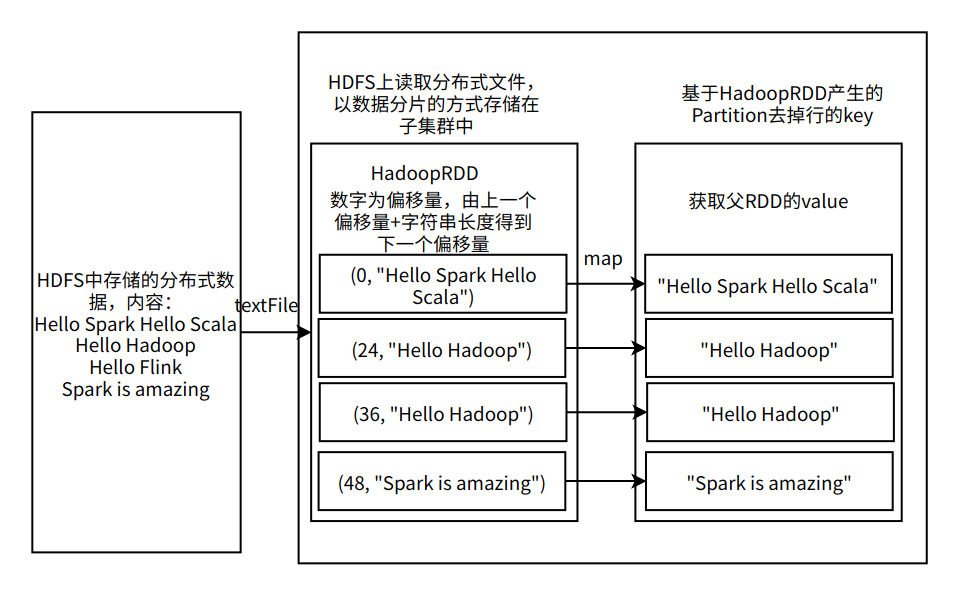
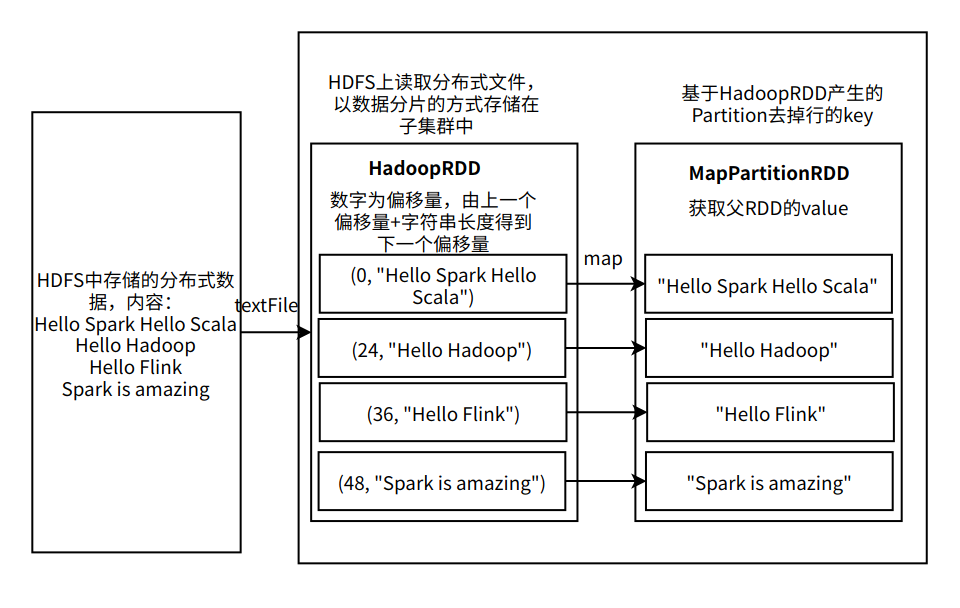
add wordCount运行原理

diff --git a/docs/ch7 Spark.md b/docs/ch7 Spark.md
@@ -406,21 +406,19 @@ wordCountsOrdered.collect.foreach(wordNumberPair => println(wordNumberPair._1 + 
 
 #### 7.4.2.4 WordCount在RDD的运行原理
 
-ch7.4.2.4_1.png
-
-一、 **textFile**
+一、 textFile
 
 <center><img src="https://gitee.com/shenhao-stu/Big-Data/raw/master/doc_imgs/ch7.4.2.4_1.png" style="zoom: 100%;" /></center>
 
-textFile：在textFile 操作产生了两个 RDD：**HadoopRDD** 和 **MapPartitionRDD**。
+在textFile 操作产生了两个 RDD：**HadoopRDD** 和 **MapPartitionRDD**。
 
 1. **HadoopRDD** 
 
-在这里之所以会先产生 HadoopRDD，是因为处理数据的第一步：我们当然是先要从 HDFS 中抓取数据了，所以会先产生 HadoopRDD。HadoopRDD 会从 HDFS 上读取分布式文件，并将输入文件以数据分片的方式存在于集群中。数据分片就是把要处理的数据分成不同的部分。
+在这里之所以会先产生 HadoopRDD，是因为处理数据的第一步：我们当然是先要从 HDFS 中抓取数据了，所以会先产生 HadoopRDD。HadoopRDD 会从 HDFS 上读取分布式文件，并将输入文件以数据分片的方式存在于集群中。数据分片就是把要处理的数据分成不同的部分。**举个例子**：
 
-假如我们集群现在有 4 个节点，于是我们将数据分成 4 个数据分片 (当然，这是一种粗略的划分)，Hello Spark在第一台机器，Hello Hadoop在第二台机器，Hello Flink在第三台机器，Spark is amazing在第四台机器。HadoopRDD 会帮助我们从磁盘上读取数据，在计算的时候会将数据放在内存中，并且会以分布式的方式放在内存中。
+假如我们集群现在有 4 个节点，于是我们将数据分成 4 个数据分片 (当然，这是一种粗略的划分)，“Hello Spark"在第一台机器，"Hello Hadoop"在第二台机器，"Hello Flink“在第三台机器，”Spark is amazing“在第四台机器。HadoopRDD 会帮助我们从磁盘上读取数据，在计算的时候会将数据放在内存中，并且会以分布式的方式放在内存中。
 
-在默认情况下，Spark 分片的策略，分片的大小与存储数据的 block 块的大小是相同的。假设我们现在有 4 个数据分片 (partition)，每个数据分片有 128M 左右。这里描述为"左右"的原因是，分片记录可能会跨越两个Block来存储，如果最后一条数据跨了两个Block，那么分片的时候会把最后一条数据都放在前面的一个分片中，此时分片大小会大于128M（Block块大小）。
+在默认情况下，Spark 分片的策略，**分片的大小与存储数据的 block 块的大小是相同的**。假设我们现在有 4 个数据分片 (partition)，每个数据分片有 128M 左右。这里描述为"左右"的原因是，分片记录可能会跨越两个Block来存储，如果最后一条数据跨了两个Block，那么分片的时候会把最后一条数据都放在前面的一个分片中，此时分片大小会大于128M（Block块大小）。
 
 2. **MapPartitionsRDD**
 
@@ -432,15 +430,71 @@ MapPartitionsRDD 是基于 HadoopRDD 产生的 RDD，MapPartitionsRDD 将 Hadoop
 
 <center><img src="https://gitee.com/shenhao-stu/Big-Data/raw/master/doc_imgs/ch7.4.2.4_2.png" style="zoom: 100%;" /></center>
 
-flatMap 操作产生了一个 MapPartitionsRDD，MapPartitionsRDD 在这里面的作用：是对每个 Partition 中的每一行内容进行单词切分并合并成一个大的单词实例的集合。
+flatMap 操作产生了一个 **MapPartitionsRDD**，MapPartitionsRDD 在这里面的作用：是对每个 Partition 中的每一行内容进行单词切分并合并成一个大的单词实例的集合。
 
-三、 **Map**
+三、 Map
 
-四、 **reduceByKey**
+<center><img src="https://gitee.com/shenhao-stu/Big-Data/raw/master/doc_imgs/ch7.4.2.4_3.png" style="zoom: 100%;" /></center>
 
-五、 **输出**
+先来看map操作，map 操作产生了一个 RDD：**MapPartitionsRDD**，MapPartitionsRDD 在这里面的作用为：在我们单词拆分的基础上对我们的单词计数为 1。比如将“Hello”和“Spark“变为(Hello, 1), (Spark, 1)。
+
+四、 reduceByKey
+
+<center><img src="https://gitee.com/shenhao-stu/Big-Data/raw/master/doc_imgs/ch7.4.2.4_4.png" style="zoom: 100%;" /></center>
+
+reduceByKey对相同key进行value的统计。包括本地级别和全局级别的统计。 reduceByKey 这个步骤实际上产生了两个 RDD：**MapPartitionsRDD** 与 **ShuffledRDD**。
+
+<center><img src="https://gitee.com/shenhao-stu/Big-Data/raw/master/doc_imgs/ch7.4.2.4_3.png" style="zoom: 100%;" /></center>
+
+**MapPartitionsRDD**：reduceByKey在MapPartitionRDD之后，首先在Local reduce级别本地进行了统计。进行本地级别 (local) 的归并操作，并且把统计后的结果按照分区策略放到不同的 File。这里的分区策略可以理解为上一个阶段的结果，将分成几个标志交给下一个极端来处理。举个例子：
+
+如本地将(Hello, 1),(Spark, 1),(Hello, 1)汇聚为(Hello, 2), (Spark, 1)进行局部统计，然后将统计的结果传给下一个阶段，如果下一个阶段Stage是3个并行度，每个Partition进行local reduce后，将自己的数据分成了3种类型传给下一个阶段。分成3种类型最简单的方式是通过HashCode按3进行取模。
+
+这个步骤发生在 Stage1 的末尾端，基于内存进行计算，减少了网络的传输，加快了计算速度。
+
+**ShuffledRDD**：接着ReduceByKey会进行Shuffle操作，Shuffle操作会产生ShuffleRDD，因为网络传输不能在内存中进行迭代（在全局进行聚合的操作），因此需要一个新的Stage来重新分类。把结果收集后，会进行全局 reduce 级别的归并操作。举个例子，对照上述流程图：
+
+前面一步假设有四个机器对这四行数据进行并行计算，并每台机器在自己内存中进行了局部聚集，对已经分好类的数据。我们从第一台机器中获取数据（Hello, 2），第二台机器获取数据（Hello, 1），第三台机器获取数据（Hello, 1），把所有的Hello都抓过来后，进行全局Reduce 在内部变成（Hello, 4），产生reduceByKey的最后结果，其他数据也类似统计。
+
+总结一下，reduceByKey 含有两个阶段：**第一个是本地级别的 Reduce，一个是全局级别的 Reduce**，第一个本地级别是我们容易忽视的。
+
+五、 输出
+
+reduceByKey之后，我们得到了数据的最后结果，需要对结果进行输出。在输出过程中，会产生**MapPartitionsRDD**，这里的输出有两种情况：**Collect**或 **saveAsTextFile**。
+
+对于Collect来说，MapPartitionsRDD的作用是把结果收集起来发送给Driver。
+
+对于saveAsTextFile，我们将 Stage2 产生的结果输出到我们 HDFS 中的时候数据的输出要符合一定的格式，而我们现在的结果只有 value，没有 Key，所以 MapPartitionsRDD 帮助我们生成相应的 Key。例如输出（Hello, 4），这里（Hello, 4）是value，而不是"Hello"是key，4是value的形式。
+
+但是我们最初在textFile读入数据时，split分片将key去掉了，只对value计算，因此最后我们需要把去掉的key弄回来。因为这里的key只对Spark框架有意义（满足格式），因此最后往HDFS写结果时，生成的key为null即可。
 
 
+
+#### 7.4.2.5 总结-DAG整体分析
+
+以DAG图的整体流程做下总结。从DAG中我们可以看出总共包含了两个阶段，Stage0 和 Stage 1。
+
+<center><img src="https://gitee.com/shenhao-stu/Big-Data/raw/master/doc_imgs/ch7.4.2.5_1.png" style="zoom: 100%;" /></center>
+
+我们接下来在具体看一下每个阶段的具体详情：
+
+第一个 Stage
+
+<center><img src="https://gitee.com/shenhao-stu/Big-Data/raw/master/doc_imgs/ch7.4.2.5_2.png" style="zoom: 100%;" /></center>
+
+第二个 Stage：
+
+<center><img src="https://gitee.com/shenhao-stu/Big-Data/raw/master/doc_imgs/ch7.4.2.5_3.png" style="zoom: 100%;" /></center>
+
+总结一下WordCount过程中产生的RDD--
+
+在WordCount中，**第一个 Stage 产生的 RDD**：
+
+HadoopRDD、 MapPartitionsRDD、MapPartitionsRDD、MapPartitionsRDD、MapPartitionsRDD(reduceByKey所产生)
+
+**第二个 Stage 产生的 RDD**：
+
+ShuffledRDD(reduceByKey所产生)、MapPartitionsRDD
 
 ## 7.5 本章小结
 
